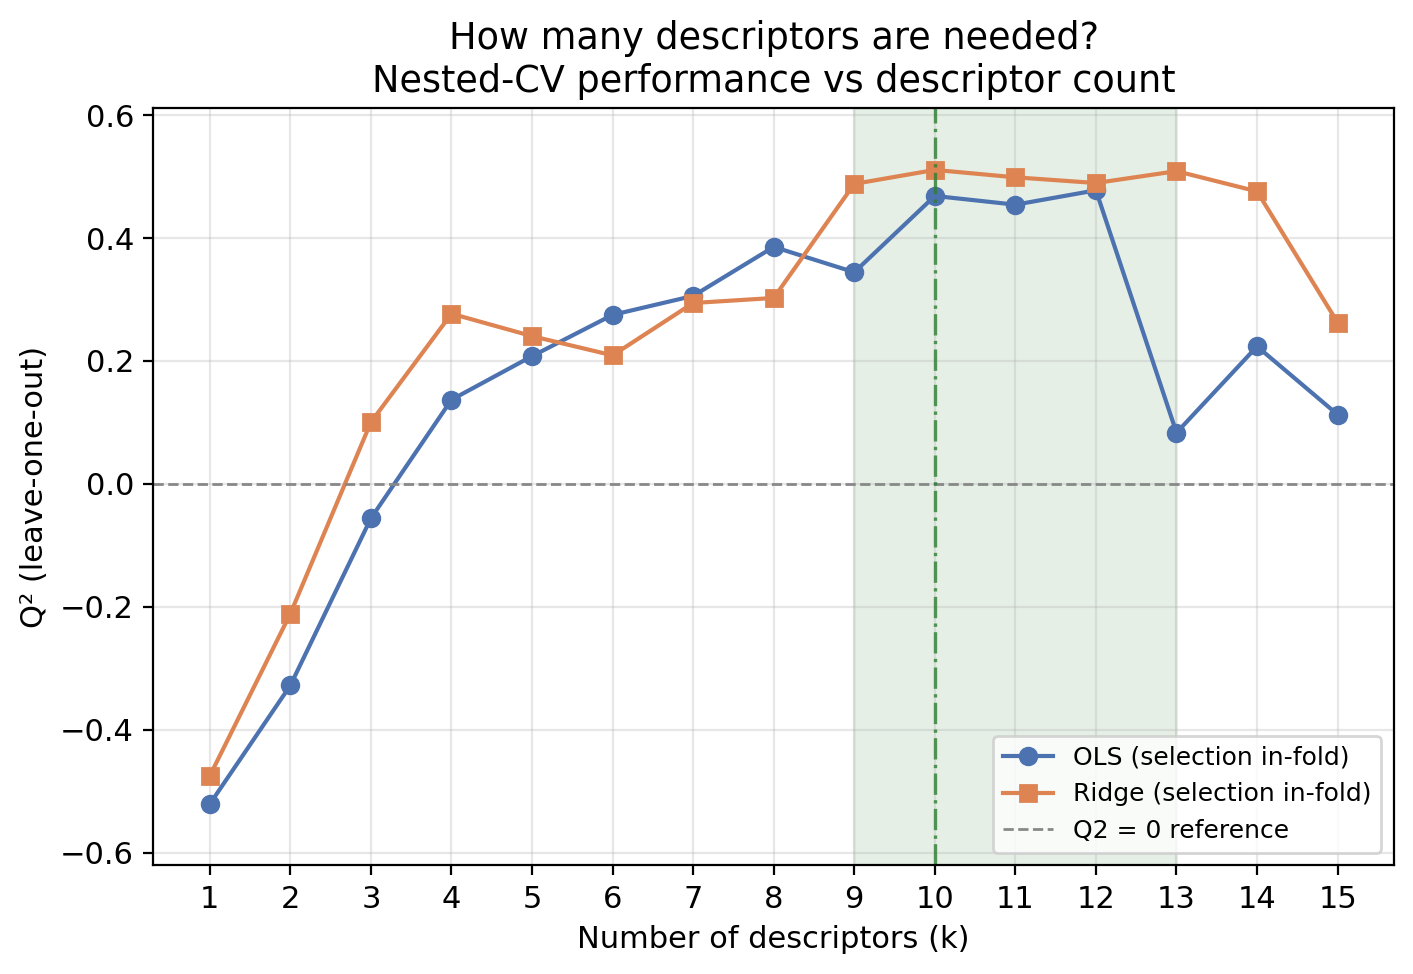
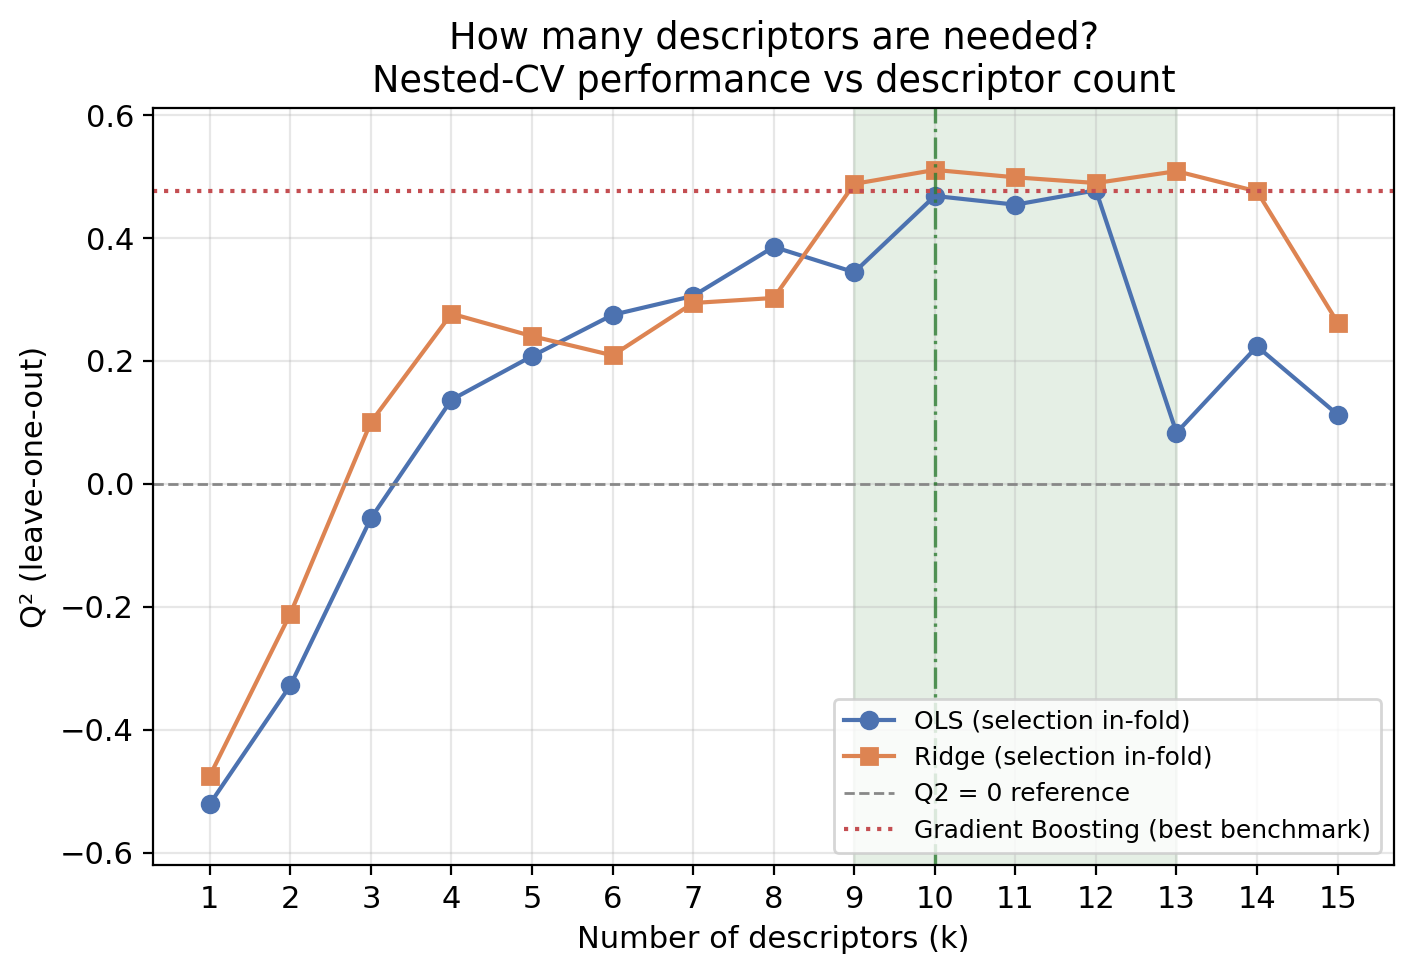
Align analyses with latest manuscript and regenerate outputs

Changed region(s): [[0.5916, 0.7084, 0.9653, 0.8624]]

diff --git a/feature_selection.py b/feature_selection.py
@@ -52,19 +52,17 @@ def cv(est):
 
 # ---- 1. stability selection ----
 rng=np.random.default_rng(42); n,p=Xv.shape; ITERS=200; m=int(round(n*0.75))
-fc=np.zeros(p); lc=np.zeros(p); eligible=np.zeros(p)
+fc=np.zeros(p); lc=np.zeros(p)
 for _ in range(ITERS):
     s=rng.choice(n,m,replace=False); ys=y[s]
     Xi=SimpleImputer(strategy='median',keep_empty_features=True).fit_transform(Xv[s])
     vt=VarianceThreshold(0.0); Xi=vt.fit_transform(Xi); support=np.flatnonzero(vt.get_support())
-    eligible[support]+=1
     Xz=StandardScaler().fit_transform(Xi)
     fsel=SelectKBest(f_regression,k=min(10,Xz.shape[1])).fit(Xz,ys)
     fc[support[fsel.get_support()]]+=1
     lasso=LassoCV(cv=3,n_alphas=30,max_iter=50000,random_state=0).fit(Xz,ys)
     lc[support[np.abs(lasso.coef_)>1e-8]]+=1
-ff=np.divide(fc,eligible,out=np.zeros_like(fc),where=eligible>0)
-lf=np.divide(lc,eligible,out=np.zeros_like(lc),where=eligible>0)
+ff,lf=fc/ITERS,lc/ITERS
 avg=(ff+lf)/2; topidx=np.argsort(-avg)[:12]
 
 # ---- 2. how many descriptors? nested-CV scan ----
@@ -73,6 +71,8 @@ for k in ks:
     prep=[('impute',SimpleImputer(strategy='median',keep_empty_features=True)),('vt',VarianceThreshold(0.0)),('sc',StandardScaler())]
     ols_q.append(cv(Pipeline(prep+[('sel',SelectKBest(f_regression,k=k)),('m',LinearRegression())]))[0])
     rid_q.append(cv(Pipeline(prep+[('sel',SelectKBest(f_regression,k=k)),('m',RidgeCV(alphas=np.logspace(-2,3,20)))]))[0])
+benchmark=pd.read_csv('final_results.csv')
+gb_q2=float(benchmark.loc[benchmark['Model']=='Gradient Boosting','Q2_LOO'].iloc[0])
 
 # ---- 3. CV ridge with fold-wise f-test selection; full-data stable set is descriptive ----
 K=10; sel=list(topidx[:K]); Xs=Xv[:,sel]
@@ -101,9 +101,11 @@ plt.rcParams.update({'font.size':11,'axes.grid':True,'grid.alpha':.3,'figure.dpi
 fig,ax=plt.subplots(figsize=(7.2,5))
 ax.plot(list(ks),ols_q,'o-',color='#4C72B0',label='OLS (selection in-fold)')
 ax.plot(list(ks),rid_q,'s-',color='#DD8452',label='Ridge (selection in-fold)')
-ax.axhline(0,color='#888',ls='--',lw=1,label='Q2 = 0 reference'); ax.axvspan(9,13,color='#CDE0CD',alpha=.5,zorder=0)
+ax.axhline(0,color='#888',ls='--',lw=1,label='Q2 = 0 reference')
+ax.axhline(gb_q2,color='#C44E52',ls=':',lw=1.5,label='Gradient Boosting (best benchmark)')
+ax.axvspan(9,13,color='#CDE0CD',alpha=.5,zorder=0)
 ax.axvline(10,color='#2E7D32',lw=1.2,ls='-.',alpha=.8); ax.set_xticks(list(ks))
-ax.set_ylim(min(0,min(ols_q+rid_q))-.1,max(0,max(ols_q+rid_q))+.1)
+ax.set_ylim(min(0,gb_q2,min(ols_q+rid_q))-.1,max(0,gb_q2,max(ols_q+rid_q))+.1)
 ax.set_xlabel('Number of descriptors (k)'); ax.set_ylabel('Q² (leave-one-out)')
 ax.set_title('How many descriptors are needed?\nNested-CV performance vs descriptor count'); ax.legend(loc='lower right',fontsize=9)
 plt.tight_layout(); plt.savefig('Fig_R4_DescriptorCount.png',bbox_inches='tight'); plt.close()

diff --git a/qsar_benchmark.py b/qsar_benchmark.py
@@ -133,7 +133,6 @@ for name, (pipe, grid) in MODELS.items():
 res = pd.DataFrame(primary).merge(pd.DataFrame(robust), on='Model')
 res['params'] = res['Model'].map(lambda k: json.dumps(best_params[k]))
 res.to_csv('final_results.csv', index=False, float_format='%.8g')
-pd.DataFrame(loo_pred).to_csv('loo_predictions.csv', index=False)
 json.dump(best_params, open('best_params.json','w'), indent=2)
 
 # baseline (predict the mean)
@@ -141,8 +140,20 @@ yb = cross_val_predict(DummyRegressor(strategy='mean'), Xv, y, cv=loo).ravel()
 base_rmse = float(np.sqrt(mean_squared_error(y, yb)))
 base_q2 = float(r2_score(y, yb)); base_mae = float(mean_absolute_error(y,yb))
 print(f'\nMean-predictor baseline: Q2={base_q2:.3f}  RMSE={base_rmse:.3f}  MAE={base_mae:.3f}')
-json.dump({'Q2_LOO':base_q2,'RMSE_LOO':base_rmse,'MAE_LOO':base_mae},
-          open('baseline_results.json','w'),indent=2)
+aromaticity = np.array([int(any(a.GetIsAromatic() for a in Chem.MolFromSmiles(s).GetAtoms()))
+                           for s in df.loc[idx,'SMILES']], dtype=float)
+aromaticity_tpsa = np.column_stack([aromaticity, X['TPSA'].to_numpy(dtype=float)])
+simple_model = Pipeline([('impute',SimpleImputer(strategy='median',keep_empty_features=True)),
+                         ('sc',StandardScaler()),('m',LinearRegression())])
+yp_simple = np.asarray(cross_val_predict(simple_model,aromaticity_tpsa,y,cv=loo,n_jobs=-1)).ravel()
+simple_metrics = {'Q2_LOO':float(r2_score(y,yp_simple)),
+                  'RMSE_LOO':float(np.sqrt(mean_squared_error(y,yp_simple))),
+                  'MAE_LOO':float(mean_absolute_error(y,yp_simple))}
+loo_pred['Aromaticity + TPSA'] = yp_simple.tolist()
+pd.DataFrame(loo_pred).to_csv('loo_predictions.csv', index=False)
+print('Aromaticity + TPSA baseline: Q2={Q2_LOO:.3f}  RMSE={RMSE_LOO:.3f}  MAE={MAE_LOO:.3f}'.format(**simple_metrics))
+json.dump({'mean_predictor':{'Q2_LOO':base_q2,'RMSE_LOO':base_rmse,'MAE_LOO':base_mae},
+           'aromaticity_tpsa':simple_metrics},open('baseline_results.json','w'),indent=2)
 
 # ---------------------------------------------------------------- 4. leakage demonstration
 X_full = SimpleImputer(strategy='median', keep_empty_features=True).fit_transform(Xv)

diff --git a/README.md b/README.md
@@ -13,7 +13,9 @@ The accompanying manuscript and supporting-information documents are not part of
 - `final_results.csv`, `loo_predictions.csv`, `best_params.json`, `baseline_results.json`, and `feature_selection_results.json` are generated result files.
 - `Fig_R1_ModelComparison.png` through `Fig_R6_FinalParity.png` are the figures regenerated by the scripts.
 
-The other top-level PNGs were supplied with the project folder and are not regenerated by these scripts. The generated result table and figures were regenerated from `dataset.csv` with the checked-in code and environment. The benchmark now gives Gradient Boosting LOO Q2 = 0.476 and repeated-CV R2 = 0.059 +/- 0.607; the manuscript draft reports Q2 = 0.52 and R2 = 0.08 +/- 0.56. Reconcile this difference in the manuscript before publication.
+The other top-level PNGs were supplied with the project folder and are not regenerated by these scripts. The generated result table and figures were regenerated from `dataset.csv` with the checked-in code and environment. In this environment, Gradient Boosting gives LOO Q2 = 0.476, RMSE = 0.853 and MAE = 0.664; repeated-CV R2 = 0.059 +/- 0.607. The manuscript reports Q2 = 0.52, RMSE = 0.82, MAE = 0.65 and R2 = 0.08 +/- 0.56. The two-variable aromaticity/TPSA baseline gives Q2 = 0.389, RMSE = 0.921 and MAE = 0.698; the manuscript reports 0.39, 0.92 and 0.74. The output environment pins scikit-learn 1.6.1, while the reviewer-response document refers to version 1.7. Reconcile these differences against the intended analysis environment before publication.
+
+The manuscript also reports 200 y-randomization permutations (Gradient Boosting Q2 = -0.42 +/- 0.28). That analysis is not implemented in the scripts yet, so this repository does not reproduce that result.
 
 ## Input data
 
